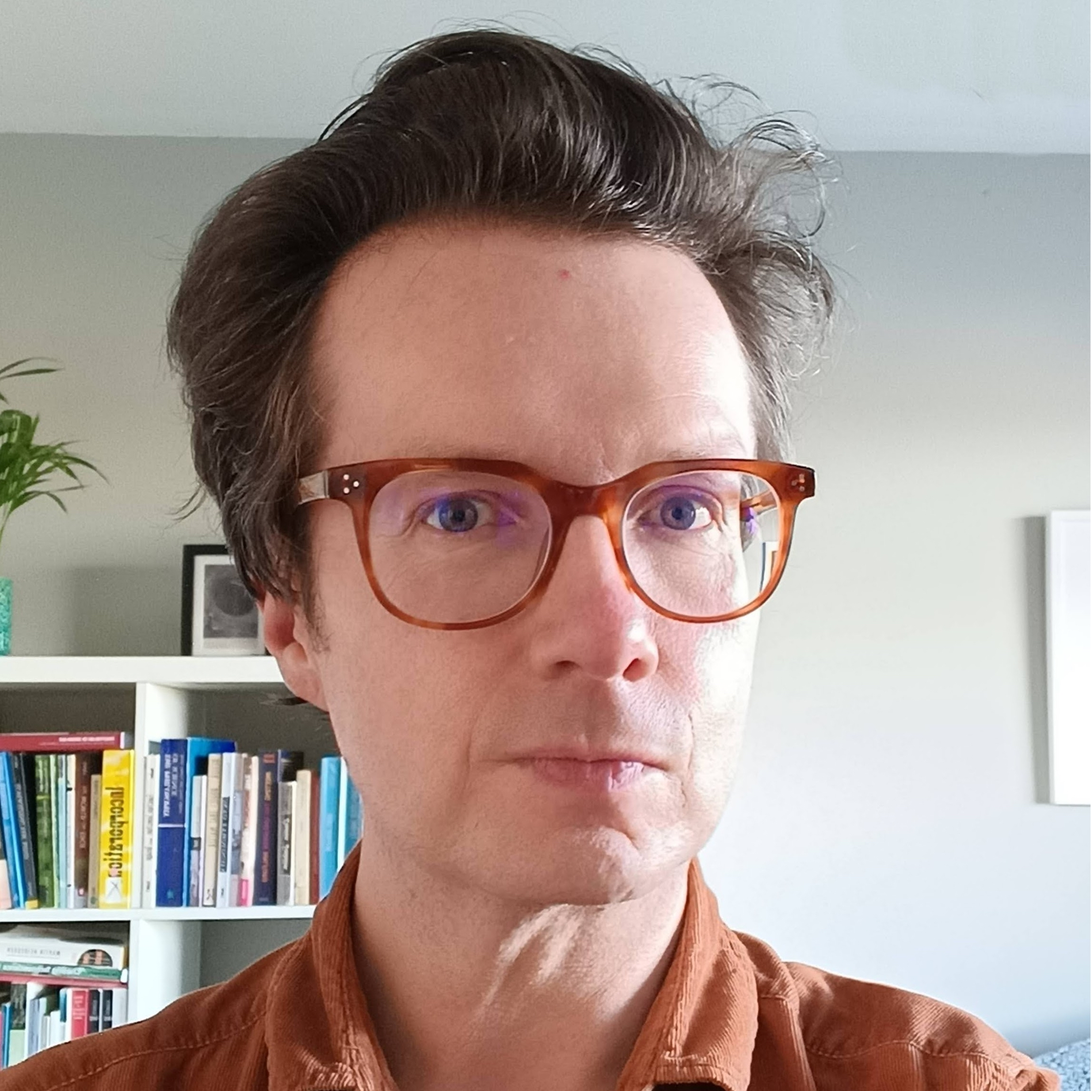
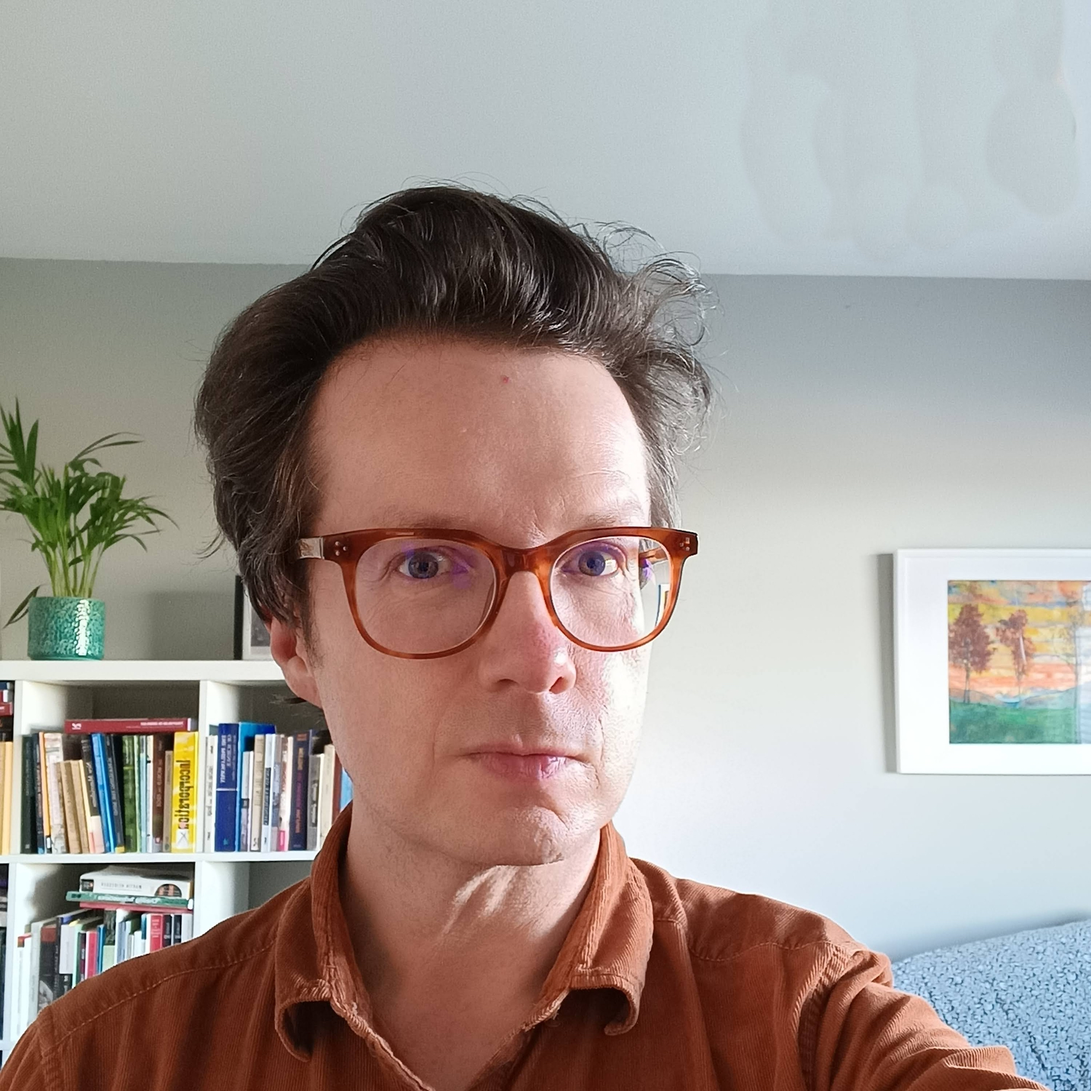
Image Update

diff --git a/public/index.html b/public/index.html
@@ -237,7 +237,7 @@
           width="144"
           height="144"
           alt="Jonathan Paul Mitchell"
-          src="/img/author_hua47b1ce53800777b14ce71021042adc9_8505768_288x288_fill_q75_box_smart1.jpg"
+          src="/img/author_hu8036003ae6ec374017f201bbf9b7e9b6_1832413_288x288_fill_q75_box_smart1.jpg"
         />
       
     
